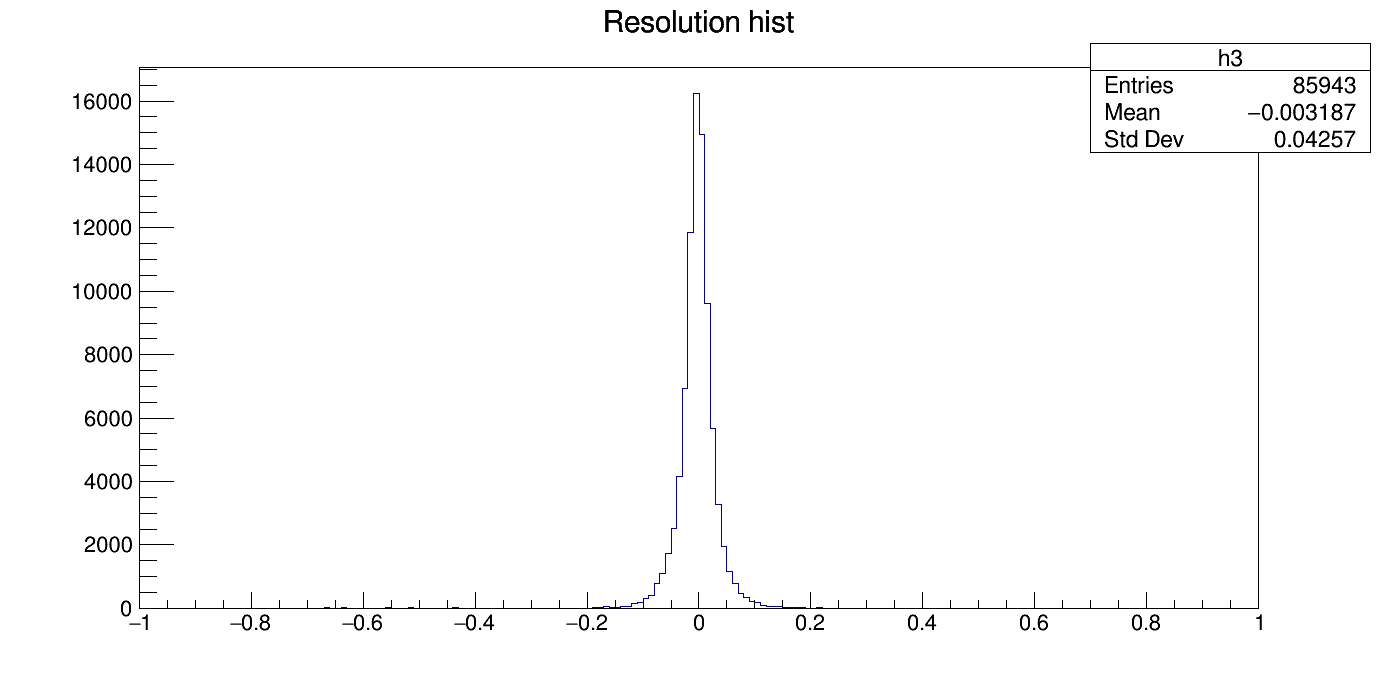
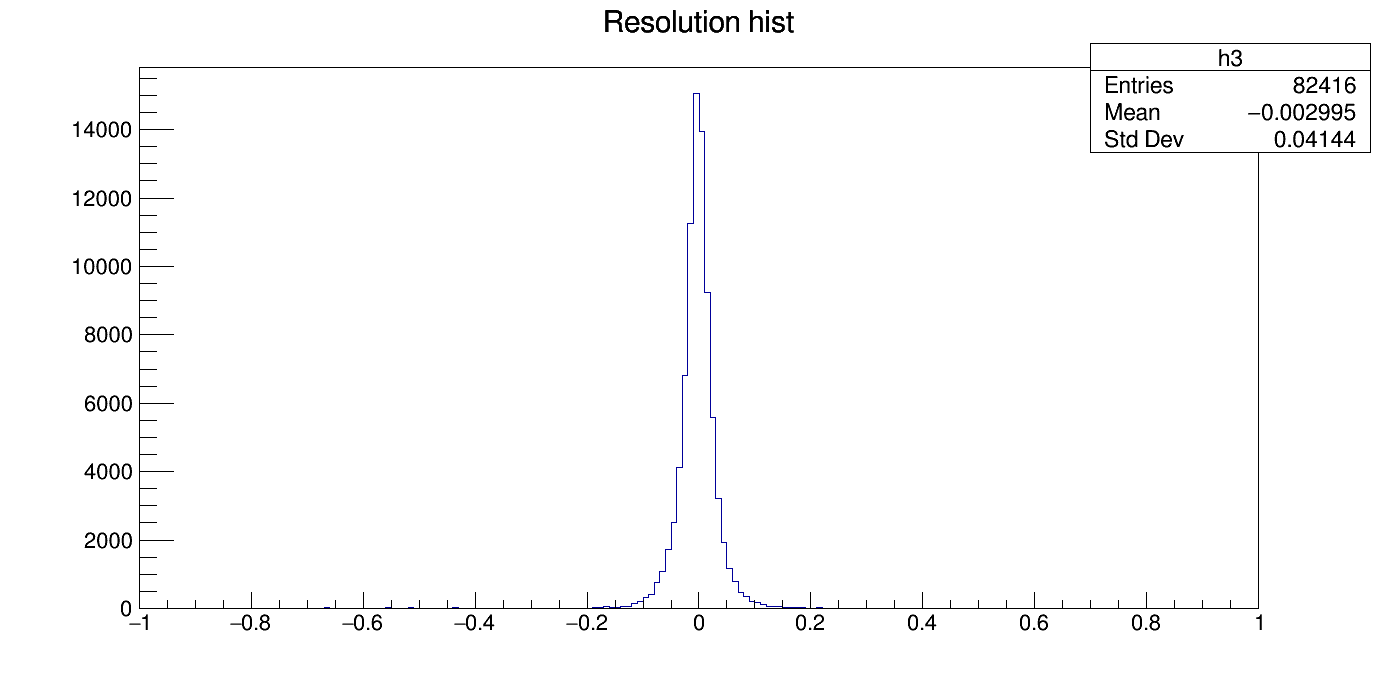
Fit mean and Std Dev

diff --git a/openroot.py b/openroot.py
@@ -4,7 +4,7 @@ import array as arr
 import sys
 
 if len( sys.argv ) != 2:
-  print"USAGE: %s <input file >"%( sys.argv [0])
+  print("USAGE: %s <input file >"%( sys.argv [0]))
   sys.exit (1)
  #input the name of the root file
 inFileName = sys.argv[1]
@@ -12,7 +12,7 @@ inFileName = sys.argv[1]
 #Open root file and get branch
 inFile = ROOT.TFile.Open( inFileName ," READ ")
 tree = inFile.Get ("muon/Events")
-print "Reading from ", inFileName      
+print("Reading from ", inFileName)    
 Entries=tree.GetEntries()
 
 
@@ -32,14 +32,14 @@ can11= ROOT.TCanvas("can11", "hist", 1400,700)
 h1 = ROOT.TH1D("h1", "Down dGl", 500, 0.0, 500.0)
 h2 = ROOT.TH1D("h2", "Up dGl", 500, 0.0, 500.0)
 h3= ROOT.TH1D("h3", "Resolution hist", 200, -1, 1)
-h4= ROOT.TH1D("h4", "Res Pt_30-40 hist ", 100, -0.1, 0.1)
-h5= ROOT.TH1D("h5", "Res Pt_40-50 hist ", 100, -0.1, 0.1)
-h6= ROOT.TH1D("h6", "Res Pt_50-70 hist ", 100, -0.1, 0.1)
-h7= ROOT.TH1D("h7", "Res Pt_70-100 hist ", 100, -0.1, 0.1)
-h8= ROOT.TH1D("h8", "Res Pt_100-150 hist ", 100, -0.1, 0.1)
-h9= ROOT.TH1D("h9", "Res Pt_150-200 hist ", 100, -0.1, 0.1)
-h10= ROOT.TH1D("h10", "Res Pt_200-350 hist ", 100, -0.1, 0.1)
-h11= ROOT.TH1D("h11", "Res Pt_350-500 hist ", 100, -0.1, 0.1)
+h4= ROOT.TH1D("h4", "p_T 30-40", 100, -0.1, 0.1)
+h5= ROOT.TH1D("h5", "p_T 40-50", 100, -0.1, 0.1)
+h6= ROOT.TH1D("h6", "p_T 50-70 ", 100, -0.1, 0.1)
+h7= ROOT.TH1D("h7", "p_T 70-100", 100, -0.1, 0.1)
+h8= ROOT.TH1D("h8", "p_T 100-150", 100, -0.1, 0.1)
+h9= ROOT.TH1D("h9", "p_T 150-200", 100, -0.1, 0.1)
+h10= ROOT.TH1D("h10", "p_T 200-350", 100, -0.1, 0.1)
+h11= ROOT.TH1D("h11", "p_T 350-500", 100, -0.1, 0.1)
 
 #relevant variables
 entry_down=0
@@ -56,21 +56,22 @@ pt_bin=np.array([30,40,50,70,100,150,200,350,500])
 #Events selection and histogram filling
 for i in range(0,Entries):
     tree.GetEntry(i) 
-    pair_dphi= abs(tree.tag_phi-tree.probe_updgl_phi)
-    pair_dphi_reduced= abs(pair_dphi - 3.141592 * (1 + (pair_dphi-3.141592)/abs(pair_dphi-3.141592)))
+
     tag_abseta= abs(tree.tag_eta)
-    if tree.HLT_L2Mu10_NoVertex_NoBPTX3BX_v == 1 and tree.tag_pt > 20 and tag_abseta < 0.9: 
+    if tree.HLT_L2Mu10_NoVertex_NoBPTX3BX_v == 1 and tree.tag_pt > 30 and tag_abseta < 0.9: 
+        pair_dphi= abs(tree.tag_phi-tree.probe_updgl_phi)
+        pair_dphi_reduced= abs(pair_dphi - 3.141592 * (1 + (pair_dphi-3.141592)/abs(pair_dphi-3.141592)))
         
-        if tree.tag_phi < -0.6 and tree.tag_phi > -2.6 and tree.probe_downdgl_pt >20 :
+        if tree.tag_phi < -0.6 and tree.tag_phi > -2.6 and tree.probe_downdgl_pt >30 :
             entry_down=i
             downdgl_pt = tree.probe_downdgl_pt
-        
+            down_charge=tree.tag_charge
             
     
-        if  tree.probe_isUpdGlobal == 1 and tree.probe_updgl_pt > 20 and pair_dphi_reduced > 2.8:
+        if  tree.probe_isUpdGlobal == 1 and tree.probe_updgl_pt > 30 and pair_dphi_reduced > 2.8:
             entry_up=i
             updgl_pt = tree.probe_updgl_pt
-            
+            up_charge=tree.tag_charge
                
                 
         if entry_up==entry_down:
@@ -82,8 +83,8 @@ for i in range(0,Entries):
             h2.Fill(updgl_pt)
             print("Up dGl",updgl_pt)
             
-            inv_Uppt=1/updgl_pt
-            inv_Downpt=1/downdgl_pt
+            inv_Uppt=up_charge/updgl_pt
+            inv_Downpt=down_charge/downdgl_pt
             res=((inv_Uppt)-(inv_Downpt))/(np.sqrt(2)*(inv_Downpt))
             h3.Fill(res)
             k+=1
@@ -140,55 +141,103 @@ can3.cd()
 h3.Write("Resolutions_hist")
 h3.Draw()
 can3.SaveAs("plots/histograms/Resolutions_hist.png")
-#Histograms of resolution distribution per pt interval 
 
+#Histograms of resolution distribution per pt interval 
+h4.GetXaxis().SetTitle( 'q/p_{T} relative residual' )
 h4.Write("pt_30-40_hist")
 can4.cd()
-h4.Fit("gaus")
+fit1=h4.Fit("gaus", "S")
 h4.Draw()
+latex = ROOT.TLatex()
+latex.SetNDC()
+latex.SetTextSize (0.04)
+latex.DrawText (0.7 ,0.5, "Fit mean= "+str(round(fit1.Parameter(1),4)))
+latex.DrawText (0.7 ,0.45, "Fit Std Dev = "+str(round(fit1.Parameter(2),4)))
+
 can4.SaveAs("plots/histograms/pt_30-40_hist.png")
 
+h5.GetXaxis().SetTitle( 'q/p_{T} relative residual' )
 h5.Write("pt_40-50_hist")
 can5.cd()
-h5.Fit("gaus")
+fit2=h5.Fit("gaus", "S")
 h5.Draw()
+latex2 = ROOT.TLatex()
+latex2.SetNDC()
+latex2.SetTextSize (0.04)
+latex2.DrawText (0.7 ,0.5, "Fit mean= "+str(round(fit2.Parameter(1),4)))
+latex2.DrawText (0.7 ,0.45, "Fit Std Dev = "+str(round(fit2.Parameter(2),4)))
 can5.SaveAs("plots/histograms/pt_40-50_hist.png")
 
+h6.GetXaxis().SetTitle( 'q/p_{T} relative residual' )
 h6.Write("pt_50-70_hist")
 can6.cd()
-h6.Fit("gaus")
+fit3=h6.Fit("gaus", "S")
 h6.Draw()
+latex3 = ROOT.TLatex()
+latex3.SetNDC()
+latex3.SetTextSize (0.04)
+latex3.DrawText (0.7 ,0.5, "Fit mean= "+str(round(fit3.Parameter(1),4)))
+latex3.DrawText (0.7 ,0.45, "Fit Std Dev = "+str(round(fit3.Parameter(2),4)))
 can6.SaveAs("plots/histograms/pt_50-70_hist.png")
 
+h7.GetXaxis().SetTitle( 'q/p_{T} relative residual' )
 h7.Write("pt_70-100_hist")
 can7.cd()
-h7.Fit("gaus")
+fit4=h7.Fit("gaus", "S")
 h7.Draw()
+latex4 = ROOT.TLatex()
+latex4.SetNDC()
+latex4.SetTextSize (0.04)
+latex4.DrawText (0.7 ,0.5, "Fit mean= "+str(round(fit4.Parameter(1),4)))
+latex4.DrawText (0.7 ,0.45, "Fit Std Dev = "+str(round(fit4.Parameter(2),4)))
 can7.SaveAs("plots/histograms/pt_70-100_hist.png")
 
-
+h8.GetXaxis().SetTitle( 'q/p_{T} relative residual' )
 h8.Write("pt_100-150_hist")
 can8.cd()
-h8.Fit("gaus")
+fit5=h8.Fit("gaus", "S")
 h8.Draw()
+latex5 = ROOT.TLatex()
+latex5.SetNDC()
+latex5.SetTextSize (0.04)
+latex5.DrawText (0.7 ,0.5, "Fit mean= "+str(round(fit5.Parameter(1),4)))
+latex5.DrawText (0.7 ,0.45, "Fit Std Dev = "+str(round(fit5.Parameter(2),4)))
 can8.SaveAs("plots/histograms/pt_100-150_hist.png")
 
+h9.GetXaxis().SetTitle( 'q/p_{T} relative residual' )
 h9.Write("pt_150-200_hist")
 can9.cd()
-h9.Fit("gaus")
+fit6=h9.Fit("gaus", "S")
 h9.Draw()
+latex6 = ROOT.TLatex()
+latex6.SetNDC()
+latex6.SetTextSize (0.04)
+latex6.DrawText (0.7 ,0.5, "Fit mean= "+str(round(fit6.Parameter(1),4)))
+latex6.DrawText (0.7 ,0.45, "Fit Std Dev = "+str(round(fit6.Parameter(2),4)))
 can9.SaveAs("plots/histograms/pt_150-200_hist.png")
 
+h10.GetXaxis().SetTitle( 'q/p_{T} relative residual' )
 h10.Write("pt_200-350_hist")
 can10.cd()
-h10.Fit("gaus")
+fit7=h10.Fit("gaus", "S")
 h10.Draw()
+latex7 = ROOT.TLatex()
+latex7.SetNDC()
+latex7.SetTextSize (0.04)
+latex7.DrawText (0.7 ,0.5, "Fit mean= "+str(round(fit7.Parameter(1),4)))
+latex7.DrawText (0.7 ,0.45, "Fit Std Dev = "+str(round(fit7.Parameter(2),4)))
 can10.SaveAs("plots/histograms/pt_200-350_hist.png")
 
+h11.GetXaxis().SetTitle( 'q/p_{T} relative residual' )
 h11.Write("pt_350-500_hist")
 can11.cd()
-h11.Fit("gaus")
+fit8=h11.Fit("gaus", "S")
 h11.Draw()
+latex8 = ROOT.TLatex()
+latex8.SetNDC()
+latex8.SetTextSize (0.04)
+latex8.DrawText (0.7 ,0.5, "Fit mean= "+str(round(fit8.Parameter(1),4)))
+latex8.DrawText (0.7 ,0.45, "Fit Std Dev = "+str(round(fit8.Parameter(2),4)))
 can11.SaveAs("plots/histograms/pt_350-500_hist.png")
 #closing output file
 outHistFile.Close()

diff --git a/dgl_ptmuond.py b/dgl_ptmuond.py
@@ -128,8 +128,8 @@ average_resolution_hist[7]=h8.GetMean()
 #Creating and saving resolutions graphs
 gr = ROOT.TGraphErrors( n, pt_bin, average_resolution,bin_size,res_error )
 gr.SetTitle( 'Pt Resolution' )
-gr.GetXaxis().SetTitle( 'p_{T}\ \mu_{ref}\ [Gev]' )
-gr.GetYaxis().SetTitle( 'Mean of 1/p_{T} relative residual' )
+gr.GetXaxis().SetTitle( 'p_{T}\ \mu_{ref}\ [GeV]' )
+gr.GetYaxis().SetTitle( 'Mean of q/p_{T} relative residual' )
 gr.GetYaxis().SetRangeUser( -0.015,0.0 )
 gr.GetXaxis().SetRangeUser( 0,500)
 can.cd()
@@ -140,8 +140,8 @@ can.SaveAs("plots/Average_Resolution.png")
 
 gs = ROOT.TGraphErrors( n, pt_bin, sigma,bin_size,sigma_error )
 gs.SetTitle( 'Sigma' )
-gs.GetXaxis().SetTitle( 'p_{T}\ \mu_{ref}\ [Gev]' )
-gs.GetYaxis().SetTitle( 'width of 1/p_{T} relative residual(\sigma)' )
+gs.GetXaxis().SetTitle( 'p_{T}\ \mu_{ref}\ [GeV]' )
+gs.GetYaxis().SetTitle( 'width of q/p_{T} relative residual' )
 gs.GetYaxis().SetRangeUser( 0.0,0.07 )
 gs.GetXaxis().SetRangeUser( 0,500 )
 can2.cd()
